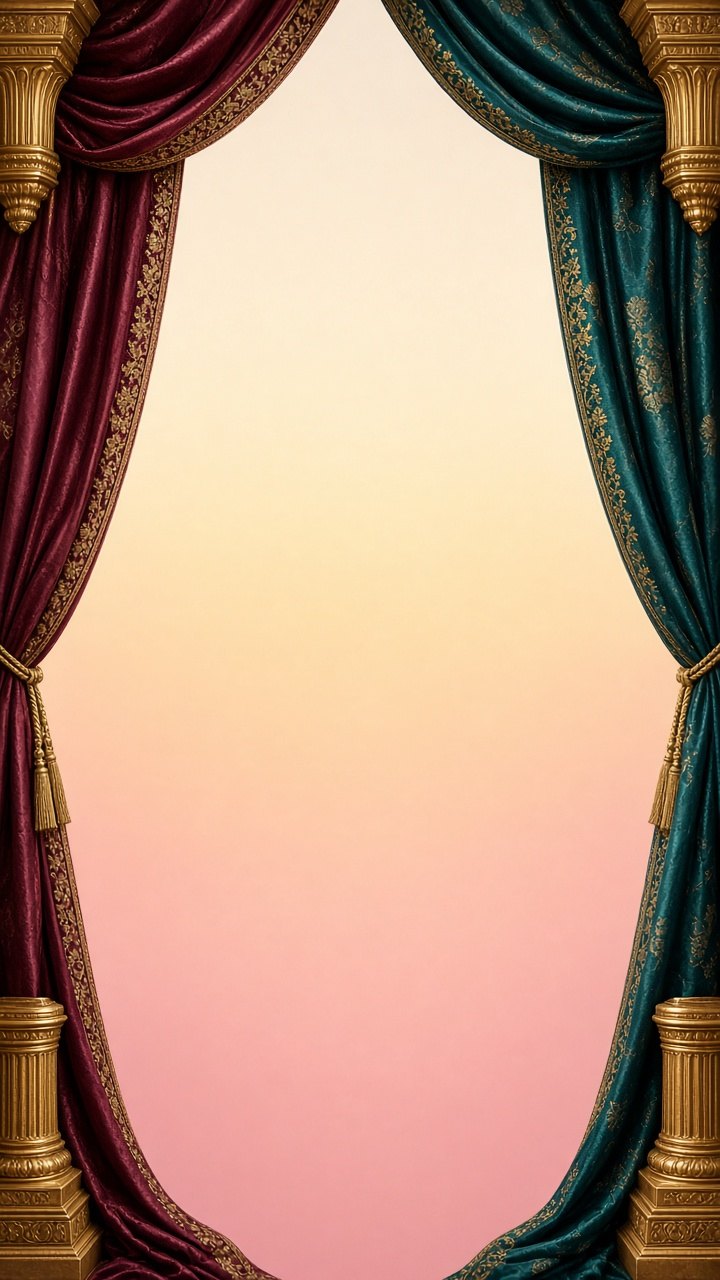
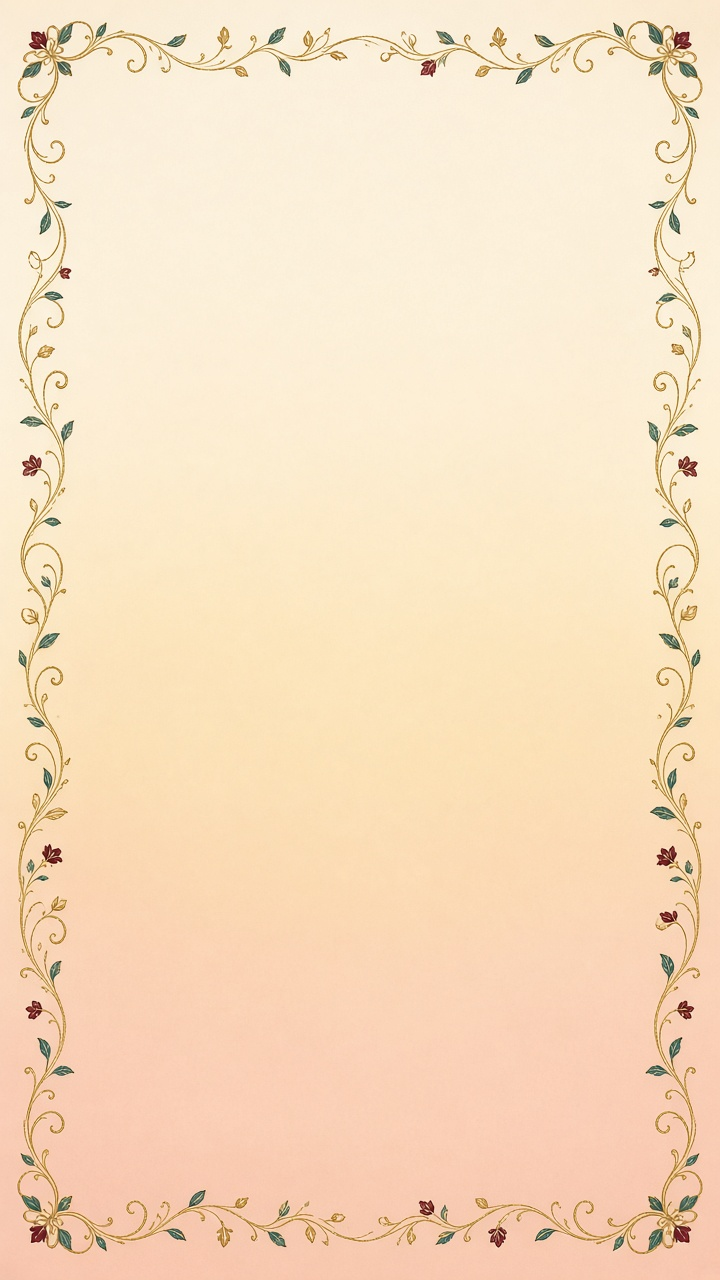
Thin the Sita Kalyanam travel plate so TAG copy is not clipped.
Replace the heavy curtain/column section-4 still with a vine/flower
filigree border, keep Transport/Accommodation/Gifts on one cluster,
and lock the thin-border text-safe rule in the assembly playbook.

diff --git a/src/invitation3.css b/src/invitation3.css
@@ -71,9 +71,9 @@
 .invitation-page.theme-royal-heritage-8 .invite-plate-4{background-image:var(--rh8-scrim),url('/assets/royal-heritage-8-section-4.jpg')}
 .invitation-page.theme-royal-heritage-8 .invite-plate-5{background-image:var(--rh8-scrim),url('/assets/royal-heritage-8-section-5.jpg')}
 .invitation-page.theme-royal-heritage-8 .invite-cluster{max-width:none;width:100%;background-color:#F7ECD6;background-size:cover;background-position:center;background-repeat:no-repeat;background-image:var(--rh8-scrim),url('/assets/royal-heritage-8-section-4.jpg')}
-.invitation-page.theme-royal-heritage-8 .invite-cluster .invite-section{background-image:none;background-color:transparent;padding-top:40px;padding-bottom:40px}
-.invitation-page.theme-royal-heritage-8 .invite-cluster .invite-section:first-child{padding-top:72px}
-.invitation-page.theme-royal-heritage-8 .invite-cluster .invite-section:last-child{padding-bottom:72px}
+.invitation-page.theme-royal-heritage-8 .invite-cluster .invite-section{background-image:none;background-color:transparent;padding:40px max(28px,12%)}
+.invitation-page.theme-royal-heritage-8 .invite-cluster .invite-section:first-child{padding-top:80px}
+.invitation-page.theme-royal-heritage-8 .invite-cluster .invite-section:last-child{padding-bottom:80px}
 .invitation-page.theme-royal-heritage-8 .invite-section h2{color:#6E1A28;text-shadow:0 1px 2px rgba(0,0,0,.16)}
 .invitation-page.theme-royal-heritage-8 .invite-plate-3 h2,
 .invitation-page.theme-royal-heritage-8 .invite-plate-5 h2{color:#165A4A}

diff --git a/documents/post-handoff-changelog.md b/documents/post-handoff-changelog.md
@@ -28,6 +28,7 @@ Operator-only desk at `/assembly` (same Akay gate cookie as `/akay`). Clones a P
 - RH8 dress palette + section plates (2026-09-21, PR #22, **not published**): overlay type uses wine `#6E1A28` / peacock `#165A4A` sampled from the couple’s dress (cream glow shadow, not white). All invitation sections below the hero are scoped to `.invitation-page.theme-royal-heritage-8` with alternating cream/gold, wine-wash, and green-wash plates. Five character-free 9:16 stills at `public/assets/royal-heritage-8-section-1.jpg` … `-5.jpg` (xAI `grok-imagine-image-2.0`). Videos remain muted. Parent-7 untouched. STOPPED before Publish.
 - RH8 overlay up + empty-sky plates (2026-09-21, PR #22, **not published**): couple-overlay padding `4svh 13% 50svh 13%` (viewport-height units so the stack sits in the upper sky and clears the couple). Section plates regenerated as unique ornamental borders with empty cream→gold→blush sky centers (no temple/architecture). Plate CSS uses a **thin** black→transparent edge vignette only (`rgba(0,0,0,.08)` falling to 0 by 10% — center sky stays clear). Parent-7 untouched. STOPPED before Publish.
 - RH8 plate cleanup (2026-09-21, PR #22, **not published**): strip ornamental plates from Welcome, Our Moments, Timeline, Dress Code, RSVP, and footer (plain cream). Transport + Accommodation + Gifts share one `invite-cluster invite-plate-4` frame. Scratch, Countdown, Venue, Pre-Wedding keep unique empty-sky plates. Thin edge vignette only. Parent-7 untouched. STOPPED before Publish.
+- RH8 TAG thin plate (2026-09-21, PR #22, **not published**): regen only `royal-heritage-8-section-4.jpg` as thin gold vine/flower filigree (wine + peacock leaf accents) on cream→peach sky — no curtains/pillars. Cluster keeps Transport + Accommodation + Gifts on that one frame, with `padding:40px max(28px,12%)` so copy stays in the text-safe center. Playbook rule in `assembly-publish.md`. Parent-7 untouched. STOPPED before Publish.
 
 Done when Ashok assembles one clone locally, opens `/invite/demo?template=…`, then says **Publish** — Akay applies Supabase SQL + commit + push (see [assembly-publish.md](assembly-publish.md)). Assembly UI shows preview links only; editable display names are set before assemble.
 

diff --git a/documents/assembly-publish.md b/documents/assembly-publish.md
@@ -70,6 +70,17 @@ Local `.env.local` required (never commit):
 
 Optional: `ASSEMBLY_PROMPT_MODEL` (default `gpt-6-astra`).
 
+## Section plates (thin-border / text-safe)
+
+Section plates are **borders around copy**, not theater scenery. When generating or swapping a plate:
+
+- Borders stay **thin** — vine / flower / delicate filigree only, about **8–12% inset** on each edge. Prefer thin vine/flower over heavy curtains or columns.
+- Center is empty sky (cream/peach/gold gradient). Body copy must never sit under the frame.
+- Do **not** generate thick draped curtains, fat pillars, jeweled bezels, or architecture that eats the sides.
+- If copy still clips, add inner padding (`max(28px, 12%)`) — do not thicken the art.
+
+Transport + Accommodation + Gifts share **one** clustered plate. Do not put plates on Welcome / Our Moments / Timeline / Dress Code / RSVP / footer unless Ashok asks.
+
 ## Out of scope
 
 - Auto-push from the Assembly button  
